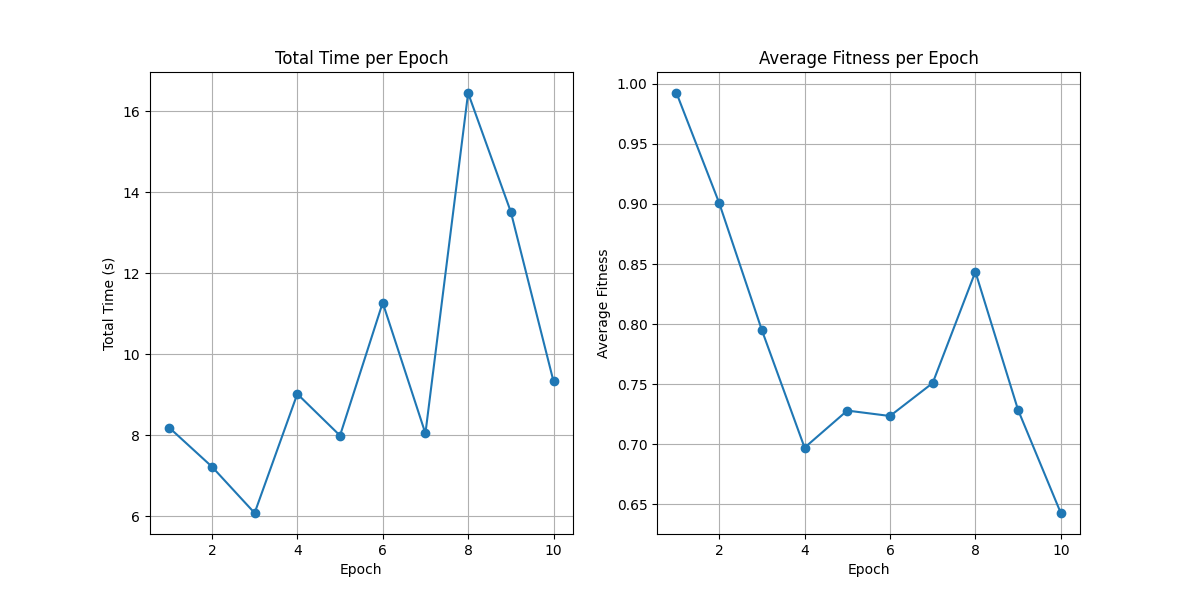
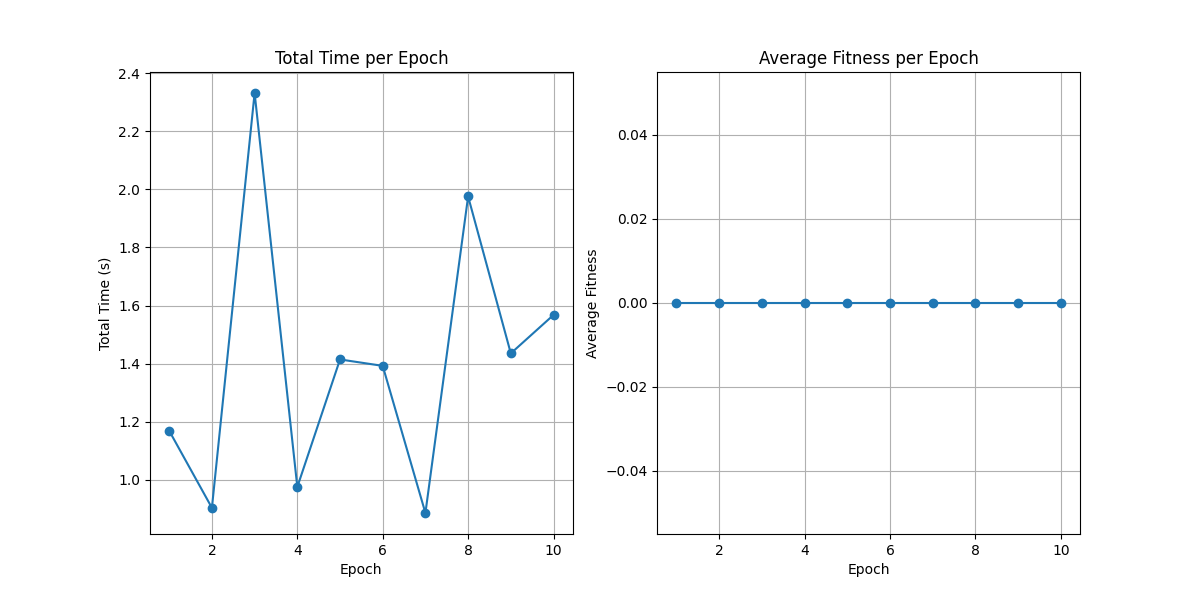
added avg_fitness

diff --git a/main.py b/main.py
@@ -540,7 +540,10 @@ def ag(submission_id, problem_id, program_path, population_size, no_epochs):
                 offsprings[i].fitness = {'fitness':0, 'no_passed_tests':0}
 
         new_population = sample(population, population_size*0.1)
-        new_population.extend(new_population[:int(0.9*population_size)])
+        new_population.extend(offsprings[:int(0.9*population_size)])
+
+        for e in new_population:
+            average_fitness += e.fitness['fitness']
 
         for p in new_population:
             if p.fitness['no_passed_tests'] == max_fitness:
@@ -592,9 +595,9 @@ def ag(submission_id, problem_id, program_path, population_size, no_epochs):
 
     # Show the plots (optional)
     if solution:
-        return minimize(solution.ast)
+        return {'sol':minimize(solution.ast), 'fitness': max_fitness}
     else:
-        return best_solution
+        return {'sol':best_solution, 'fitness': best_fitness}
 
 
 if __name__ == "__main__":
@@ -604,12 +607,15 @@ if __name__ == "__main__":
     # final_C_patch = generator.visit(final_patch)
     # with open("./final_patch/"+str(submision_id)+".c", 'w') as f:
     #     f.write(final_C_patch)
-    for i in range(0,10):
+    for i in range(0,1):
         submision_id = i
-        final_patch = ag(submision_id, i+1, "problems/"+str(i)+".c", 30, 10)
+        res= ag(submision_id, i+1, "problems/"+str(i)+".c", 30, 10)
+        final_patch = res['sol']
+        fitness = res['fitness']
         generator = c_generator.CGenerator()
         final_C_patch = generator.visit(final_patch)
         with open("./final_patch/" + str(submision_id) + ".c", 'w') as f:
+            f.write(str(fitness)+"\n")
             f.write(final_C_patch)
         print("doneeeeeeeeeeeeeeeee")
     # ag(0, 1, "problems/0.c", 10)

diff --git a/final_patch/5.c b/final_patch/5.c
@@ -9,7 +9,7 @@ int main()
     scanf("%d", &v[i]);
 
   int ok_par = 0;
-  for (int i = ordonat; i >= 0; i++)
+  for (int i = 1; i <= n; i++)
   {
     if ((v[i] % 2) == 0)
     {
@@ -20,29 +20,9 @@ int main()
       if ((ok_par == 1) && (v[i] > prev))
       {
         ordonat = 0;
-        ok_par = prev;
+        ok_par = 0;
       }
-      i = prev;
-      ok_par = ordonat;
-      for (int i = 1; i <= n; i++)
-      {
-        if ((v[i] % 2) == 0)
-        {
-          if (ok_par == 0)
-          {
-            ok_par = 1;
-          }
-          if ((ok_par == 1) && (v[i] > prev))
-          {
-            ordonat = 0;
-            ok_par = prev;
-          }
-          prev = prev;
-        }
-      }
-
-      prev = 1;
-      ok_par = 0;
+      prev = 0;
     }
   }
 
@@ -50,7 +30,6 @@ int main()
     printf("DA");
   else
     printf("NU");
-  return 0;
   return 0;
 }
 

diff --git a/final_patch/7.c b/final_patch/7.c
@@ -7,7 +7,7 @@ int main()
     scanf("%d", &v[i]);
 
   int minim = v[1];
-  for (int i = n; i >= v[n + 1]; i++)
+  for (int i = 1; i <= n; i++)
     if (v[i] < minim)
     minim = v[i];
 
@@ -17,34 +17,11 @@ int main()
     if (v[i] == minim)
     {
       v[n] = v[n + 1];
-      n--;
-      v[n] = v[n + 1];
-      n--;
-      v[k] = n;
-      for (int i = 1; i <= n; i++)
-        if (v[i] < minim)
-        minim = v[i];
-
-      return 0;
-      v[k] = v[k + 1];
-      int k = i
-      i++;
-      i = n;
-      int k = i
-      return 0;
       for (int k = i; k <= n; k++)
       {
         v[k] = v[k + 1];
-        i = i;
       }
 
-      return 0;
-      n--;
-      return 0;
-      v[k] = 1;
-      v[n] = v[n];
-      n--;
-      int k = i
       n--;
     }
     n--;

diff --git a/final_patch/8.c b/final_patch/8.c
@@ -14,29 +14,14 @@ int main()
     j = 1;
     while ((j <= n) && (si <= s))
     {
-      si = si - v[j - 1];
+      si = si + v[j];
       j++;
       if (v[i] > si)
         break;
     }
 
     j++;
-    si = si - v[j - 1];
     si = si + v[j];
-    si = si - v[j - 1];
-    si = si - v[j - 1];
-    return 0;
-    return 0;
-    j++;
-    si = si - v[j - 1];
-    j++;
-    si = si - v[j - 1];
-    return 0;
-    si = si + v[j];
-    si = si;
-    si = si + v[j];
-    si = si + v[j];
-    si = si - v[j - 1];
     if (si == s)
     {
       printf("%d %d", i, j - 2);
@@ -45,6 +30,5 @@ int main()
 
   printf("0 0");
   return 0;
-  j++;
 }
 

diff --git a/final_patch/3.c b/final_patch/3.c
@@ -13,7 +13,7 @@ int main()
   {
     if ((i % 2) == 0)
     {
-      s = i;
+      poz1 = i;
       break;
     }
   }
@@ -26,10 +26,9 @@ int main()
     }
   }
 
-  for (int i = s; i < 1; i--)
+  for (int i = poz1; i <= poz2; i++)
   {
-    s += v[i];
-    break;
+    s += s;
   }
 
   if (poz1 == (-1))

diff --git a/final_patch/6.c b/final_patch/6.c
@@ -19,13 +19,11 @@ int main()
     {
       nr_cif++;
       x = x / 10;
-      x = 1;
-      x = x / 10;
     }
 
     if ((nr_cif % 2) == 1)
     {
-      x = n;
+      ok = 1;
     }
   }
 
@@ -34,5 +32,6 @@ int main()
   else
     printf("NU");
   return 0;
+  ok = 1;
 }
 

diff --git a/final_patch/4.c b/final_patch/4.c
@@ -10,8 +10,8 @@ int main()
   int dr;
   int st;
   dr = 1;
-  dr++;
-  dr = n;
+  dr = 1;
+  st = n;
   while (dr < st)
   {
     int a = v[dr];
@@ -29,8 +29,7 @@ int main()
     else
     {
       dr++;
-      dr++;
-      dr++;
+      st--;
     }
     dr++;
     st--;

diff --git a/final_patch/9.c b/final_patch/9.c
@@ -59,13 +59,14 @@ int main()
     if ((b[j] % x) == 0)
     {
       k++;
-      v[k] = v[k];
+      v[k] = a[j];
     }
   }
 
   for (int i = 1; i <= k; i++)
     printf("%d ", v[i]);
 
+  return 0;
   return 0;
 }
 

diff --git a/final_patch/1.c b/final_patch/1.c
@@ -58,8 +58,7 @@ int main()
         for (i = n, k = j + 1; i >= (j + 1); i--, k++)
         {
           p++;
-          v[p] = a[k][i];
-          p++;
+          v[p] = v[p];
         }
 
       }

diff --git a/final_patch/2.c b/final_patch/2.c
@@ -29,10 +29,6 @@ int main()
       {
         cont += a[i] * b[j];
         break;
-        break;
-        break;
-        break;
-        j++;
       }
       j++;
       j++;

diff --git a/final_patch/0.c b/final_patch/0.c
@@ -1,3 +1,4 @@
+1.3776247848537007
 int main()
 {
   int n;
